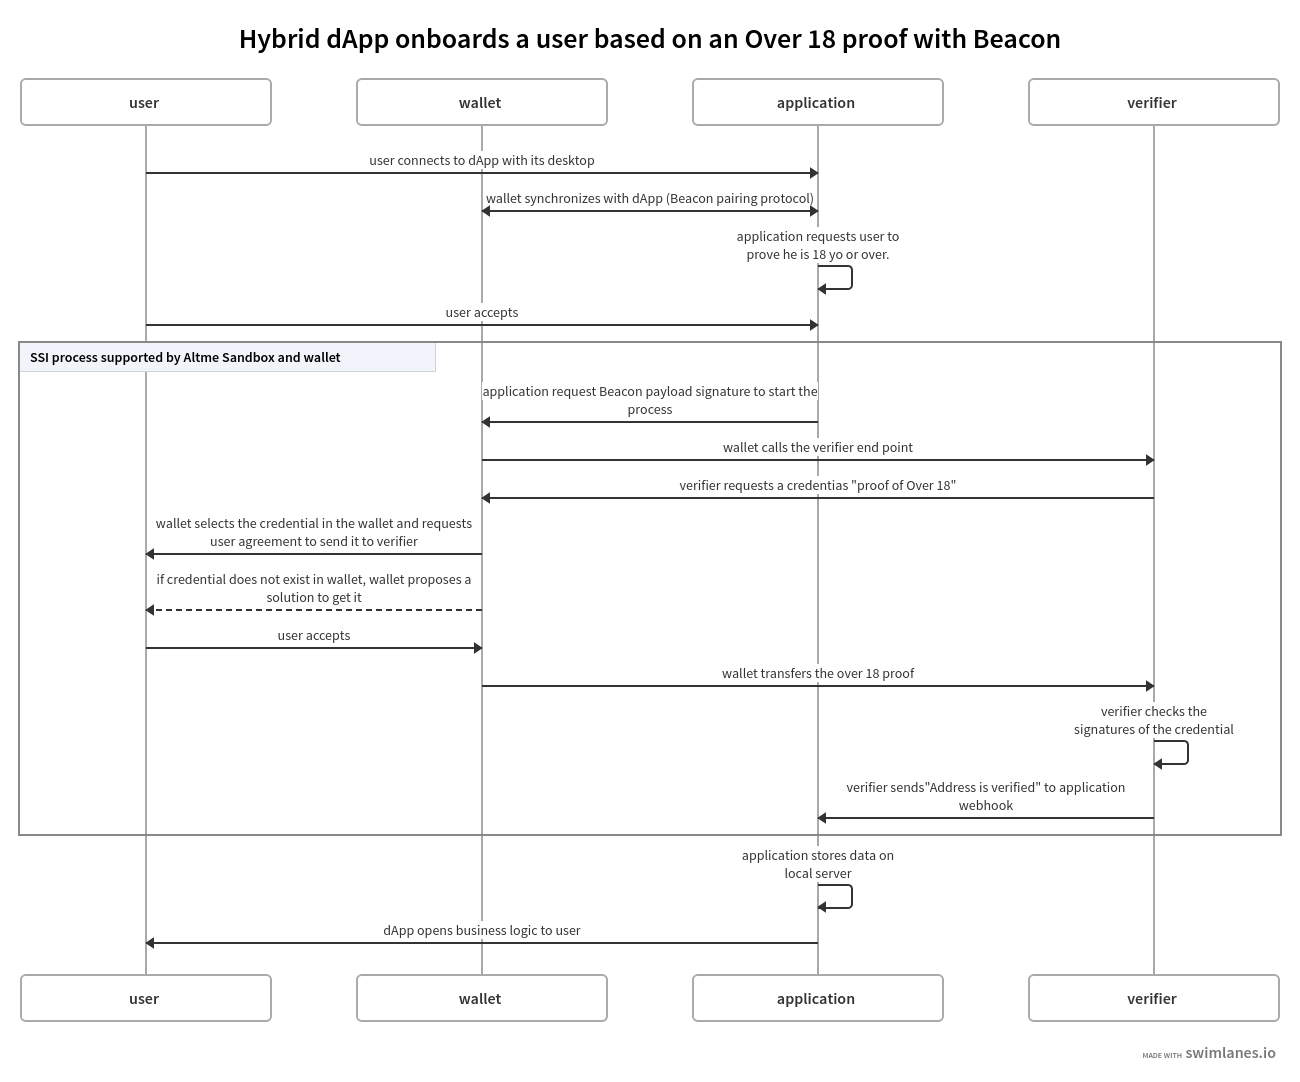
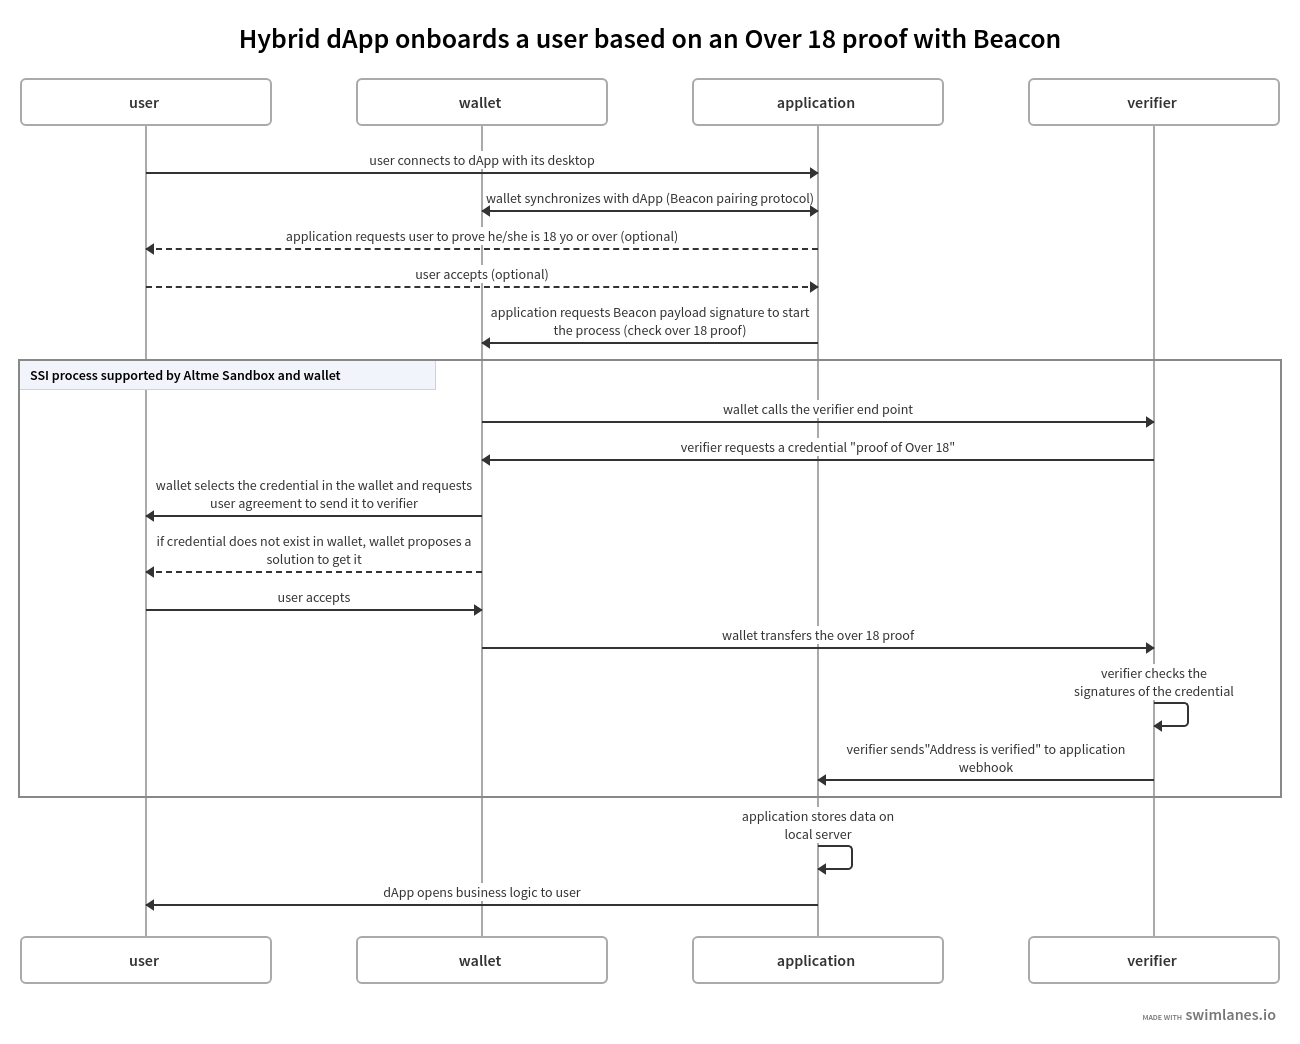
update

diff --git a/docs/source/code_beacon.rst b/docs/source/code_beacon.rst
@@ -10,7 +10,7 @@ Integration with Beacon is extremely simple and you can test it in minutes. To i
 
 This payload will contain a message to your liking and an URL that you will obtain on the Altme Sandbox platform : https://talao.co
 
-The URL is given just after the fragment "#"" with no space. Example :
+The URL is given just after the fragment "#" with no space. Example with a RAW message :
 
 .. code-block:: javascript
 
@@ -39,7 +39,6 @@ After pairing with the wallet, the dApp code to launch that request is simple :
           signingType: beacon.SigningType.RAW,
           payload: 'Get your Welcome card ! #https://talao.co/sandbox/op/beacon/ormmcdomjv?issuer=did:ethr:0x64098e894fea5b83e7e4c52a30d70b98e25bd9d5'
                })
-
 
 
 To sign the payload, you can also use a MICHELINE or OPERATION message after encoding the message in bytes as it is requested : https://tezostaquito.io/docs/signing/
@@ -131,6 +130,7 @@ Example of an Over18 check with a RAW message type
 
 * verifier id : jvlfopeogt
 * verifier secret : c8f90f24-5506-11ed-b15e-0a1628958560
+* payload : 'I am over 18 years old#https://talao.co/sandbox/op/beacon/verifier/jvlfopeogt?issuer=did:tz:tz1NyjrTUNxDpPaqNZ84ipGELAcTWYg6s5Du'
 
 
 .. code-block:: javascript
